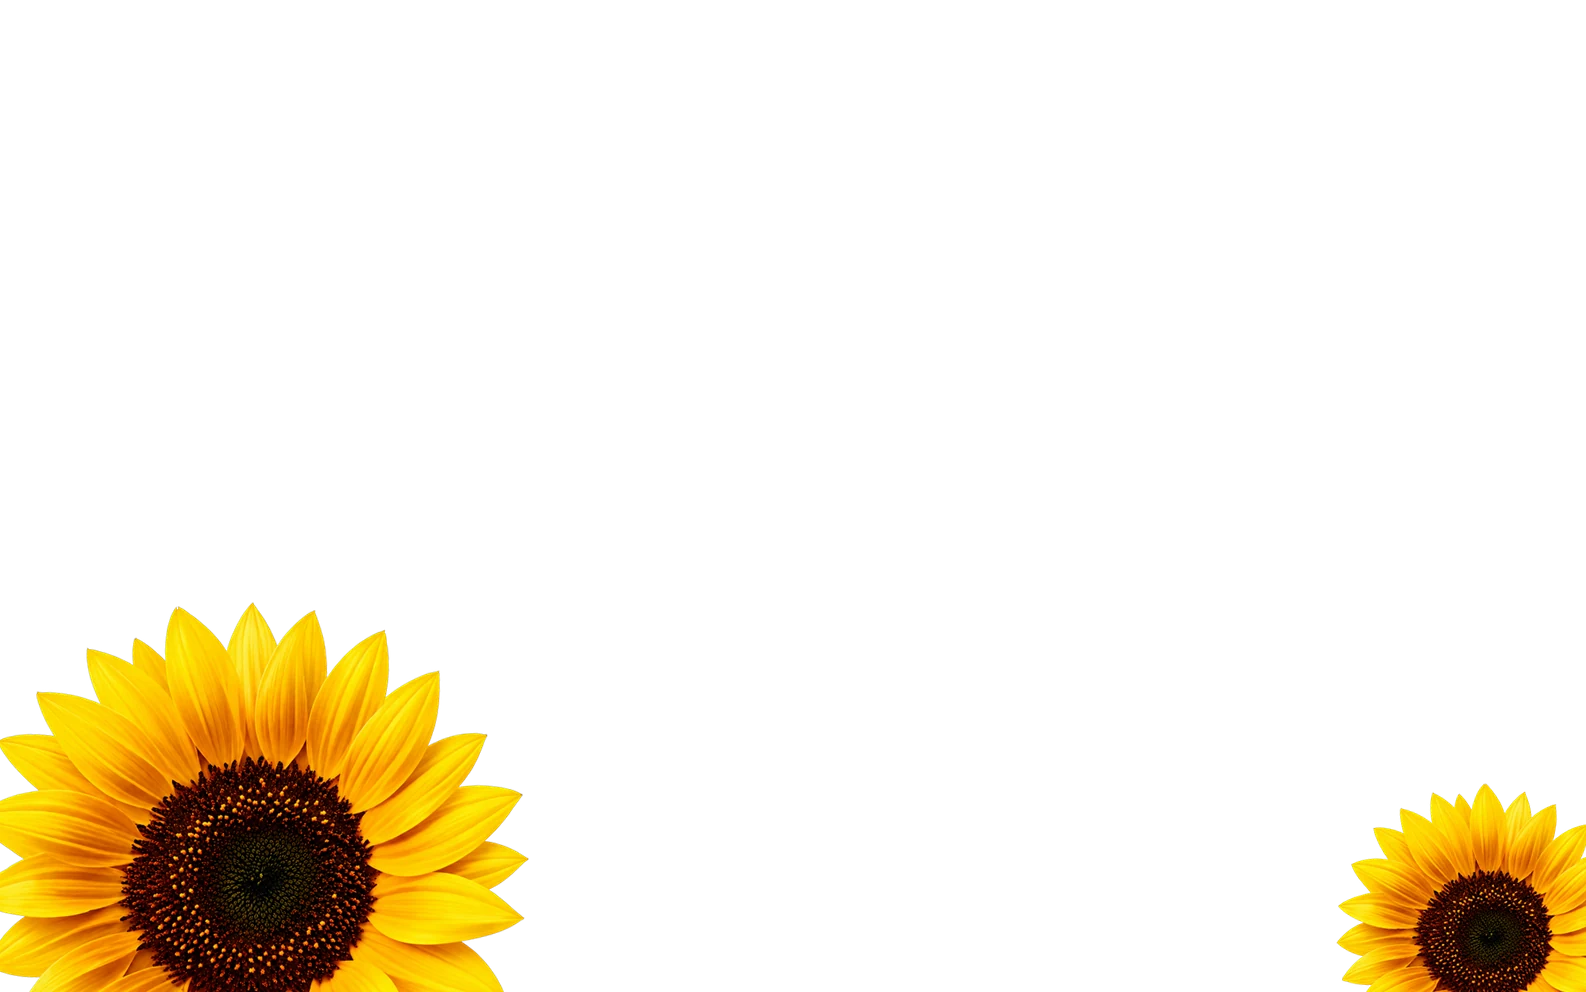
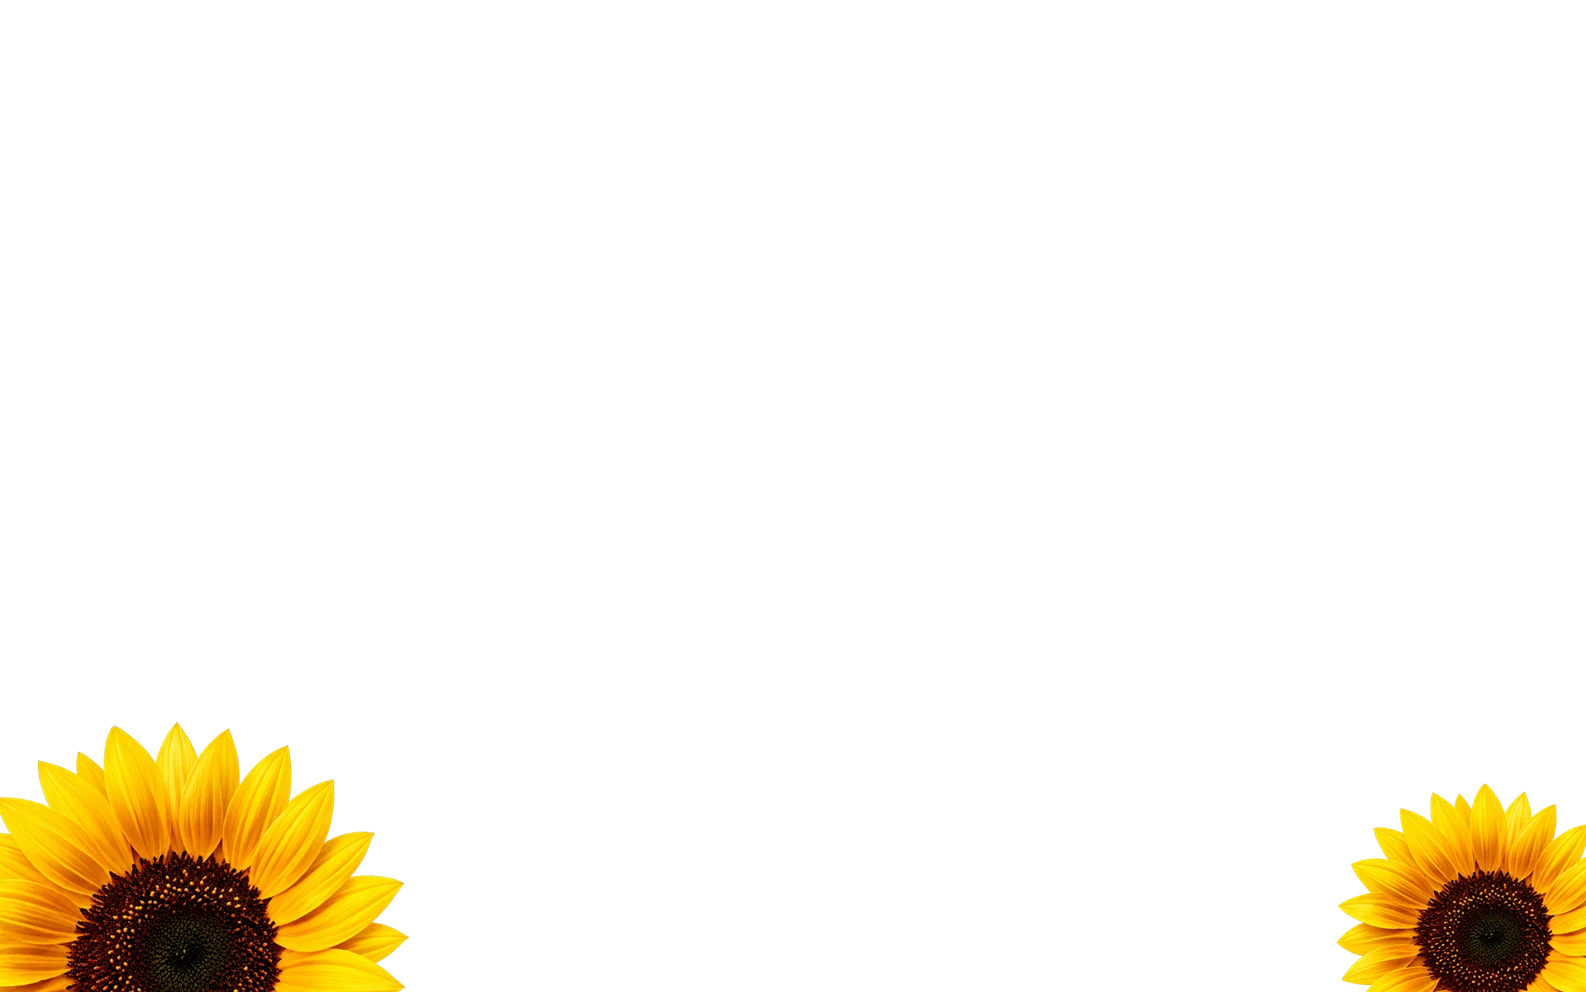
Recreate to Pratham's exact structure: home order hero/intro/services/archive/toolkit/contact/footer (his live order, no projects tabs on home), hero height-capped so nothing overlaps at wide-short screens, front flower tucked to corner, site scaled up (type+spacing), About trimmed to his Hello/Educ

Changed region(s): [[0.0, 0.5938, 0.3398, 1.0]]

diff --git a/index.html b/index.html
@@ -136,21 +136,6 @@
     </div>
   </section>
 
-  <!-- TOOLKIT -->
-  <section class="toolkit">
-    <h2 class="section-title huge reveal">My Creative Toolkit</h2>
-    <ul class="tool-list reveal">
-      <li data-hover><span>React Native</span><span class="arr">↗</span></li>
-      <li data-hover><span>TypeScript</span><span class="arr">↗</span></li>
-      <li data-hover><span>React</span><span class="arr">↗</span></li>
-      <li data-hover><span>Python</span><span class="arr">↗</span></li>
-      <li data-hover><span>Figma</span><span class="arr">↗</span></li>
-      <li data-hover><span>Supabase</span><span class="arr">↗</span></li>
-      <li data-hover><span>Expo</span><span class="arr">↗</span></li>
-      <li data-hover><span>GitHub</span><span class="arr">↗</span></li>
-    </ul>
-  </section>
-
   <!-- VISUAL ARCHIVE -->
   <section class="archive">
     <div class="blob blob-a"></div>
@@ -184,38 +169,19 @@
     </div>
   </section>
 
-  <!-- PROJECTS (home) -->
-  <section class="projects-home">
-    <div class="projects-head reveal">
-      <h2 class="section-title huge">Our Projects</h2>
-      <button class="pill-btn small dark" data-view="projects" data-hover>View All Projects <span class="arr">↗</span></button>
-    </div>
-    <div class="tabs reveal" data-tabs="home">
-      <button class="tab active" data-tab="ai" data-hover>AI Tools</button>
-      <button class="tab" data-tab="mobile" data-hover>Mobile Apps</button>
-      <button class="tab" data-tab="web" data-hover>Web &amp; SaaS</button>
-      <button class="tab" data-tab="security" data-hover>Security Tools</button>
-    </div>
-    <div class="panel-row" data-panel="home-ai">
-      <a class="proj-card" href="https://spec-balloon.vercel.app" target="_blank" rel="noopener" data-hover><img class="poster-img" src="assets/posters/specballoon.png" alt="SpecBalloon poster"></a>
-      <a class="proj-card" href="https://auditify.krynex.in" target="_blank" rel="noopener" data-hover><img class="poster-img" src="assets/posters/auditify.png" alt="Auditify poster"></a>
-      <a class="proj-card" href="https://phalanx.krynex.in" target="_blank" rel="noopener" data-hover><img class="poster-img" src="assets/posters/phalanx.png" alt="PHALANX poster"></a>
-      <a class="proj-card" href="https://tether-ten-psi.vercel.app" target="_blank" rel="noopener" data-hover><img class="poster-img" src="assets/posters/tether.png" alt="TETHER poster"></a>
-    </div>
-    <div class="panel-row hidden" data-panel="home-mobile">
-      <a class="proj-card" href="https://dopadiary.vercel.app" target="_blank" rel="noopener" data-hover><img class="poster-img" src="assets/posters/dopadiary.png" alt="DopaDiary poster"></a>
-      <a class="proj-card" href="https://github.com/DhyeyPatel007/evenly" target="_blank" rel="noopener" data-hover><img class="poster-img" src="assets/posters/evenly.png" alt="Evenly poster"></a>
-      <a class="proj-card" href="https://gillnet-project.vercel.app" target="_blank" rel="noopener" data-hover><img class="poster-img" src="assets/posters/gillnet.png" alt="GillNet AI poster"></a>
-    </div>
-    <div class="panel-row hidden" data-panel="home-web">
-      <a class="proj-card" href="https://krynex.in" target="_blank" rel="noopener" data-hover><img class="poster-img" src="assets/posters/krynex.png" alt="Krynex poster"></a>
-      <a class="proj-card" href="https://vajra.krynex.in" target="_blank" rel="noopener" data-hover><img class="poster-img" src="assets/posters/vajra.png" alt="Vajra poster"></a>
-    </div>
-    <div class="panel-row hidden" data-panel="home-security">
-      <a class="proj-card" href="https://gillnet-project.vercel.app" target="_blank" rel="noopener" data-hover><img class="poster-img" src="assets/posters/gillnet.png" alt="GillNet AI poster"></a>
-      <a class="proj-card" href="https://datum-a7iq.onrender.com" target="_blank" rel="noopener" data-hover><img class="poster-img" src="assets/posters/datum.png" alt="DATUM poster"></a>
-      <a class="proj-card" href="https://phalanx.krynex.in" target="_blank" rel="noopener" data-hover><img class="poster-img" src="assets/posters/phalanx.png" alt="PHALANX poster"></a>
-    </div>
+  <!-- TOOLKIT -->
+  <section class="toolkit">
+    <h2 class="section-title huge reveal">My Creative Toolkit</h2>
+    <ul class="tool-list reveal">
+      <li data-hover><span>React Native</span><span class="arr">↗</span></li>
+      <li data-hover><span>TypeScript</span><span class="arr">↗</span></li>
+      <li data-hover><span>React</span><span class="arr">↗</span></li>
+      <li data-hover><span>Python</span><span class="arr">↗</span></li>
+      <li data-hover><span>Figma</span><span class="arr">↗</span></li>
+      <li data-hover><span>Supabase</span><span class="arr">↗</span></li>
+      <li data-hover><span>Expo</span><span class="arr">↗</span></li>
+      <li data-hover><span>GitHub</span><span class="arr">↗</span></li>
+    </ul>
   </section>
 
   <!-- CONTACT + FOOTER -->
@@ -346,36 +312,23 @@
   </section>
   <section class="about-body">
     <div class="about-block reveal">
-      <h2>The Builder Behind the Portfolio</h2>
-      <p>I'm Dhyey Patel, a developer and founder from India who blends building with design to craft products that don't just look good — they ship, and they work.</p>
+      <p class="hello" style="font-size:20px;color:#8a8378;font-weight:500">Hello, I'm</p>
+      <h2 style="font-size:clamp(40px,5.5vw,64px)">Dhyey</h2>
+      <p style="font-size:clamp(22px,3vw,32px);font-weight:700;color:#111;line-height:1.35">I Build to Get Noticed.<br>And Ship to be Chosen.</p>
+      <p style="margin-top:18px">I'm Dhyey Patel, a developer and founder from India who blends building with design to craft products that don't just look good — they ship, and they work in the real world.</p>
     </div>
     <div class="about-block reveal">
-      <h2>My Background</h2>
-      <p>I started with curiosity, grew through shipping, and now build products where AI is the hard core — not a wrapper. Every project is a chance to learn, experiment, and make something people actually use.</p>
+      <h2>Education</h2>
       <ul class="edu-list">
-        <li><strong>B.Tech CSE</strong> — VIT Bhopal (2025–2029)</li>
-        <li><strong>Editor</strong> — GSoC Innovators Club, VIT Bhopal</li>
+        <li><strong>B.Tech, Computer Science &amp; Engineering</strong> — VIT Bhopal<br><span style="color:#777">2025 – 2029</span></li>
       </ul>
-    </div>
-    <div class="about-block reveal">
-      <h2>What Drives Me</h2>
-      <ul class="drive-list">
-        <li><strong>Build Real Things</strong> — working products over demos and mockups.</li>
-        <li><strong>Ship Over Show</strong> — a live link beats a pitch, every time.</li>
-        <li><strong>Clarity First</strong> — if it isn't clear, it isn't finished.</li>
-        <li><strong>Always Learning</strong> — every build teaches the next one.</li>
-        <li><strong>Build With Purpose</strong> — effort should turn into proof, and into value.</li>
-      </ul>
-    </div>
-    <div class="about-block reveal">
-      <h2>How I Work</h2>
-      <p>My approach is simple, but it works: I start by understanding the problem and who it's for. Then I build fast, verify on the live product itself — never on claims — and ship.</p>
     </div>
     <div class="about-block reveal">
       <h2>Experience</h2>
       <ul class="edu-list">
-        <li><strong>Founder &amp; Developer</strong> — Auditify (Sep 2026 – Present)</li>
-        <li><strong>Freelance Developer</strong> — (Jan 2026 – Present)</li>
+        <li><strong>Founder &amp; Developer</strong> — Auditify <span style="color:#777">(Sep 2026 – Present)</span></li>
+        <li><strong>Freelance Developer</strong> <span style="color:#777">(Jan 2026 – Present)</span></li>
+        <li><strong>Editor</strong> — GSoC Innovators Club, VIT Bhopal</li>
       </ul>
     </div>
   </section>

diff --git a/styles.css b/styles.css
@@ -32,9 +32,9 @@ img{display:block;max-width:100%}
 
 /* ---------- HERO ---------- */
 .hero{position:relative;background:var(--cream);min-height:100svh;overflow:hidden;padding-top:86px}
-.giant-name{position:absolute;top:52px;left:50%;transform:translateX(-50%);font-size:clamp(110px,19.5vw,305px);font-weight:800;color:var(--taupe);letter-spacing:-.01em;line-height:1;z-index:1;white-space:nowrap;user-select:none}
-.hero-stage{position:relative;max-width:900px;margin:0 auto;height:calc(100svh - 86px);min-height:560px}
-.hero-comp{position:absolute;left:50%;transform:translateX(-50%);bottom:-5%;width:min(1180px,150vw);aspect-ratio:1586/992;z-index:3;pointer-events:none;
+.giant-name{position:absolute;top:58px;left:50%;transform:translateX(-50%);font-size:clamp(110px,17.5vw,290px);font-weight:800;color:var(--taupe);letter-spacing:-.01em;line-height:1;z-index:1;white-space:nowrap;user-select:none}
+.hero-stage{position:relative;max-width:1280px;margin:0 auto;height:calc(100svh - 86px)}
+.hero-comp{position:absolute;left:50%;transform:translateX(-50%);bottom:0;width:min(1020px,94vw,138svh);aspect-ratio:1586/992;z-index:3;pointer-events:none;
   -webkit-mask-image:linear-gradient(to bottom,#000 88%,transparent 99%);mask-image:linear-gradient(to bottom,#000 88%,transparent 99%)}
 .hl{position:absolute;inset:0;width:100%;height:100%}
 .hl-back{z-index:2}
@@ -46,21 +46,20 @@ img{display:block;max-width:100%}
 .f-front-left{width:218px;left:-4%;bottom:-6%;z-index:4;animation:drift 9s ease-in-out infinite}
 .f-front-right{width:152px;right:-4%;bottom:-5%;z-index:4;animation:drift 8.5s ease-in-out infinite}
 @keyframes drift{0%,100%{transform:translateY(0) rotate(0deg)}50%{transform:translateY(-14px) rotate(5deg)}}
-.hero-intro{position:absolute;left:-12%;bottom:16%;z-index:6}
-.hero-intro .hello{font-size:19px;color:#8a8378;font-weight:500}
-.hero-intro .name{font-size:52px;font-weight:800;color:#111;line-height:1.05}
-.hero-intro .tagline{font-size:15.5px;color:#6f6a5e;margin-top:6px;line-height:1.45}
+.hero-intro{position:absolute;left:1%;bottom:13%;z-index:6;text-shadow:0 0 16px var(--cream),0 0 34px var(--cream),0 0 52px var(--cream)}
+.hero-intro .hello{font-size:20px;color:#8a8378;font-weight:500}
+.hero-intro .name{font-size:56px;font-weight:800;color:#111;line-height:1.05}
+.hero-intro .tagline{font-size:16.5px;color:#6f6a5e;margin-top:6px;line-height:1.45}
 @media(max-width:1100px){.hero-intro{left:2%}}
 @media(max-width:720px){
   .hero-intro{position:absolute;left:5%;bottom:6%}
   .hero-intro .name{font-size:38px}
-  .f-front-left{width:130px}.f-back-right{width:120px}
-  .hero-comp{width:135vw}
+  .hero-comp{width:min(135vw,138svh)}
 }
 
 /* ---------- INTRO ---------- */
-.intro{background:var(--white);padding:110px 24px 90px;text-align:center}
-.intro-text{max-width:880px;margin:0 auto;font-size:clamp(21px,3vw,32px);font-weight:600;line-height:1.5;color:#161616}
+.intro{background:var(--white);padding:130px 24px 110px;text-align:center}
+.intro-text{max-width:980px;margin:0 auto;font-size:clamp(24px,3.2vw,36px);font-weight:600;line-height:1.5;color:#161616}
 .pill-btn{display:inline-block;margin-top:38px;padding:15px 32px;border-radius:999px;font-size:16px;font-weight:600;text-decoration:none}
 .pill-btn.olive{background:var(--olive);color:#fff}
 .pill-btn.white{background:#fff;color:var(--brown)}
@@ -68,7 +67,7 @@ img{display:block;max-width:100%}
 .pill-btn.small{margin-top:0;padding:11px 22px;font-size:14px}
 
 /* ---------- SERVICES ---------- */
-.services{background:var(--cream);padding:90px 24px 130px;overflow:hidden}
+.services{background:var(--cream);padding:120px 24px 150px;overflow:hidden}
 .section-title{font-weight:800;color:#111}
 .section-title.taupe{color:#8f8672;text-align:center;font-size:clamp(30px,4.6vw,54px)}
 .services .section-title{font-size:clamp(44px,6.2vw,76px);line-height:1.05;text-align:center}
@@ -84,14 +83,14 @@ img{display:block;max-width:100%}
 @media(max-width:900px){.fan{flex-wrap:wrap;gap:22px}.svc-card{margin-left:0!important;transform:none;width:min(250px,80vw)}}
 
 /* ---------- TOOLKIT ---------- */
-.toolkit{background:var(--grey);padding:100px 24px 110px}
-.tool-list{list-style:none;max-width:860px;margin:56px auto 0}
-.tool-list li{display:flex;justify-content:space-between;align-items:center;padding:20px 6px;border-bottom:1.5px solid #cfcfcf;font-size:clamp(19px,2.6vw,27px);font-weight:700;color:#141414}
+.toolkit{background:var(--grey);padding:130px 24px 140px}
+.tool-list{list-style:none;max-width:920px;margin:64px auto 0}
+.tool-list li{display:flex;justify-content:space-between;align-items:center;padding:26px 6px;border-bottom:1.5px solid #cfcfcf;font-size:clamp(22px,2.8vw,30px);font-weight:700;color:#141414}
 .tool-list li:first-child{border-top:1.5px solid #cfcfcf}
 .tool-list .arr{font-size:.85em;color:#555}
 
 /* ---------- ARCHIVE ---------- */
-.archive{position:relative;background:#FBFAF7;padding:120px 24px 130px;overflow:hidden}
+.archive{position:relative;background:#FBFAF7;padding:150px 24px 160px;overflow:hidden}
 .blob{position:absolute;border-radius:50%;filter:blur(70px);z-index:0;pointer-events:none;opacity:.55}
 .blob-a{width:480px;height:480px;background:#F5B81E;top:-120px;right:-100px;animation:blobFloat 13s ease-in-out infinite}
 .blob-b{width:420px;height:420px;background:#E8912D;bottom:-140px;left:-120px;animation:blobFloat 16s ease-in-out infinite reverse}
@@ -103,7 +102,7 @@ img{display:block;max-width:100%}
 .watermark{position:absolute;top:36px;left:50%;transform:translateX(-50%);font-size:clamp(80px,15vw,215px);font-weight:800;line-height:.95;color:var(--watermark);text-align:center;z-index:0;user-select:none;white-space:nowrap}
 .archive-sub{position:relative;z-index:2;text-align:center;font-weight:600;color:#3c3c3c;letter-spacing:.35em;font-size:14px;margin-bottom:70px}
 .archive-row{position:relative;z-index:1;display:flex;justify-content:center;gap:26px;flex-wrap:wrap;max-width:1200px;margin:0 auto}
-.arch-card{text-decoration:none;width:200px}
+.arch-card{text-decoration:none;width:232px}
 .arch-card .poster{border-radius:20px}
 .arch-label{display:flex;justify-content:space-between;margin-top:12px;font-weight:700;color:#111;font-size:14px;letter-spacing:.12em}
 .arch-label i{font-style:normal}
@@ -163,7 +162,7 @@ img{display:block;max-width:100%}
 .video-link{margin-top:auto;font-weight:600;color:var(--orange)}
 
 /* ---------- CONTACT / FOOTER ---------- */
-.contact{background:var(--orange);color:var(--brown);padding:90px 24px 80px;border-radius:34px 34px 0 0}
+.contact{background:var(--orange);color:var(--brown);padding:120px 24px 100px;border-radius:34px 34px 0 0}
 .contact-big{font-size:clamp(42px,7.5vw,96px);font-weight:800;line-height:1.04;max-width:1100px}
 .contact-sub{margin-top:22px;font-size:clamp(16px,2vw,21px);font-weight:500;max-width:640px}
 .contact-mail{margin-top:14px;font-weight:700;font-size:18px}
